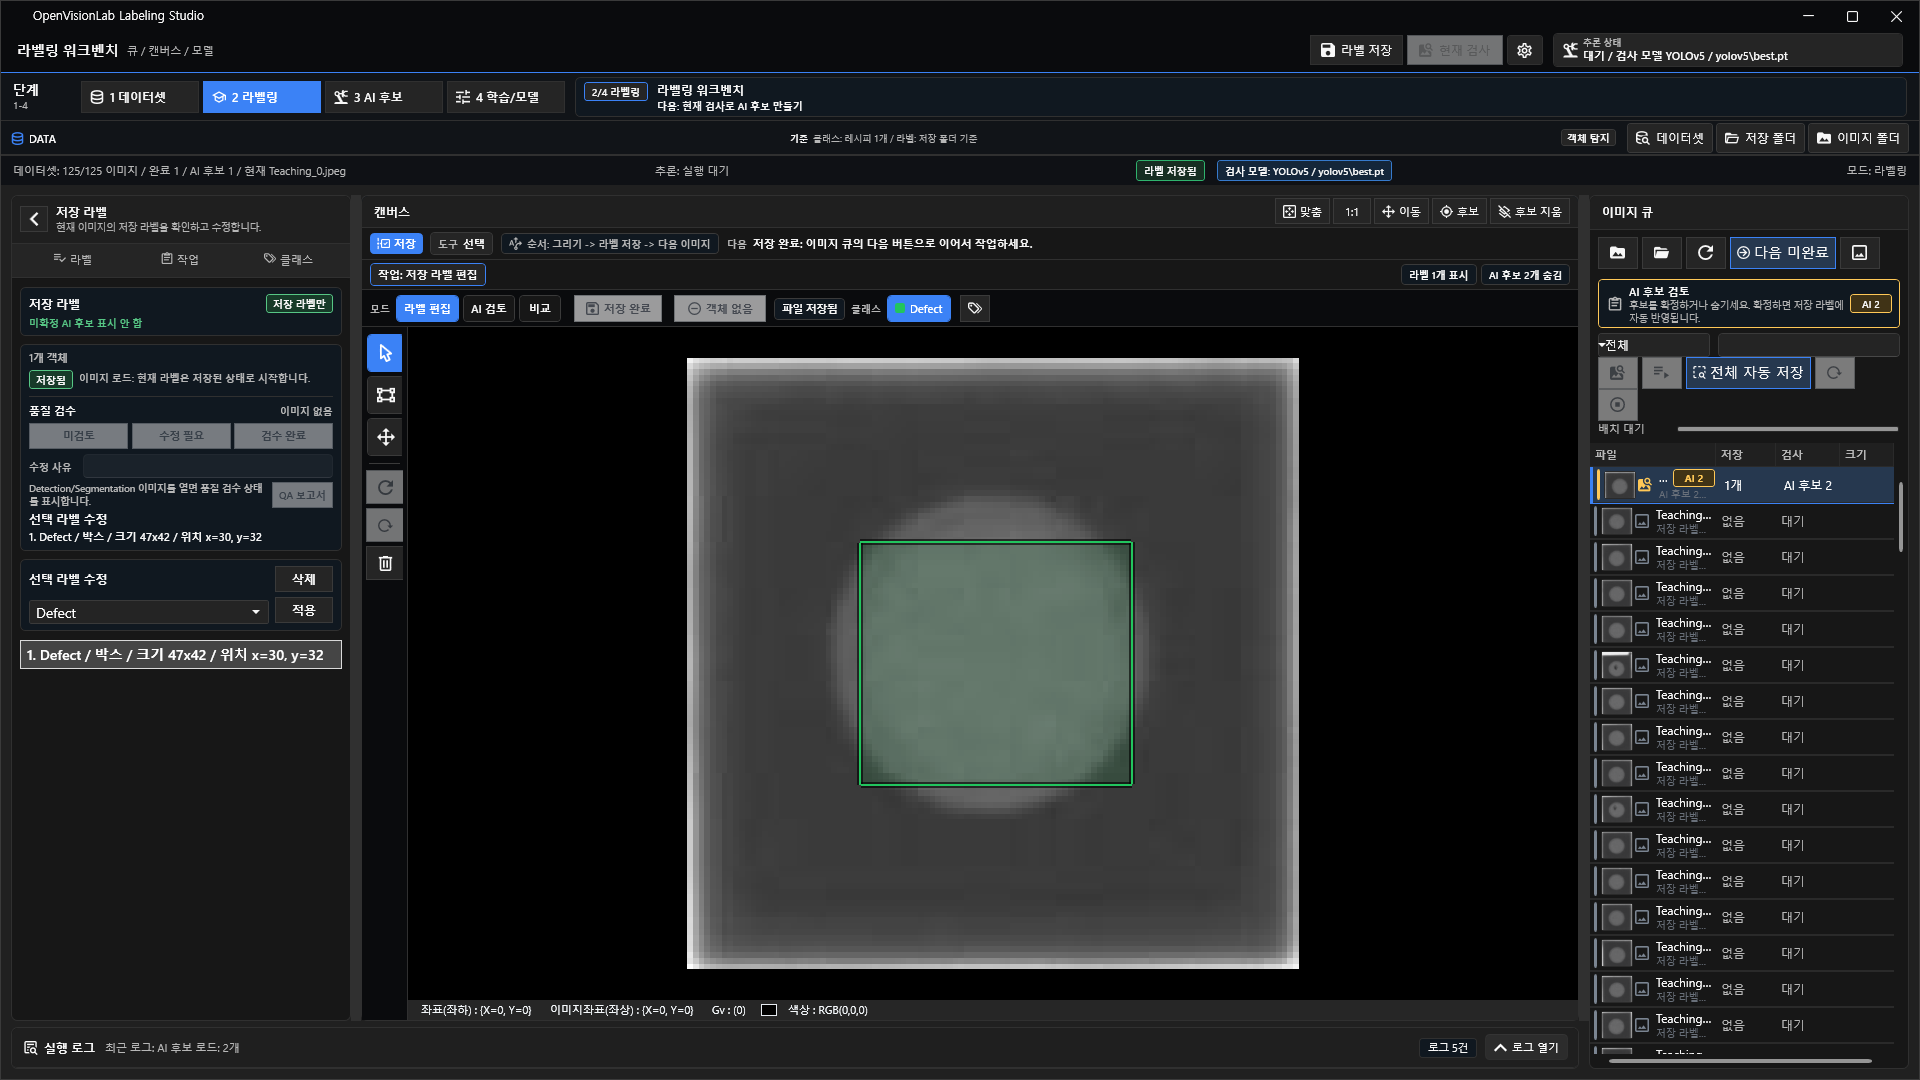
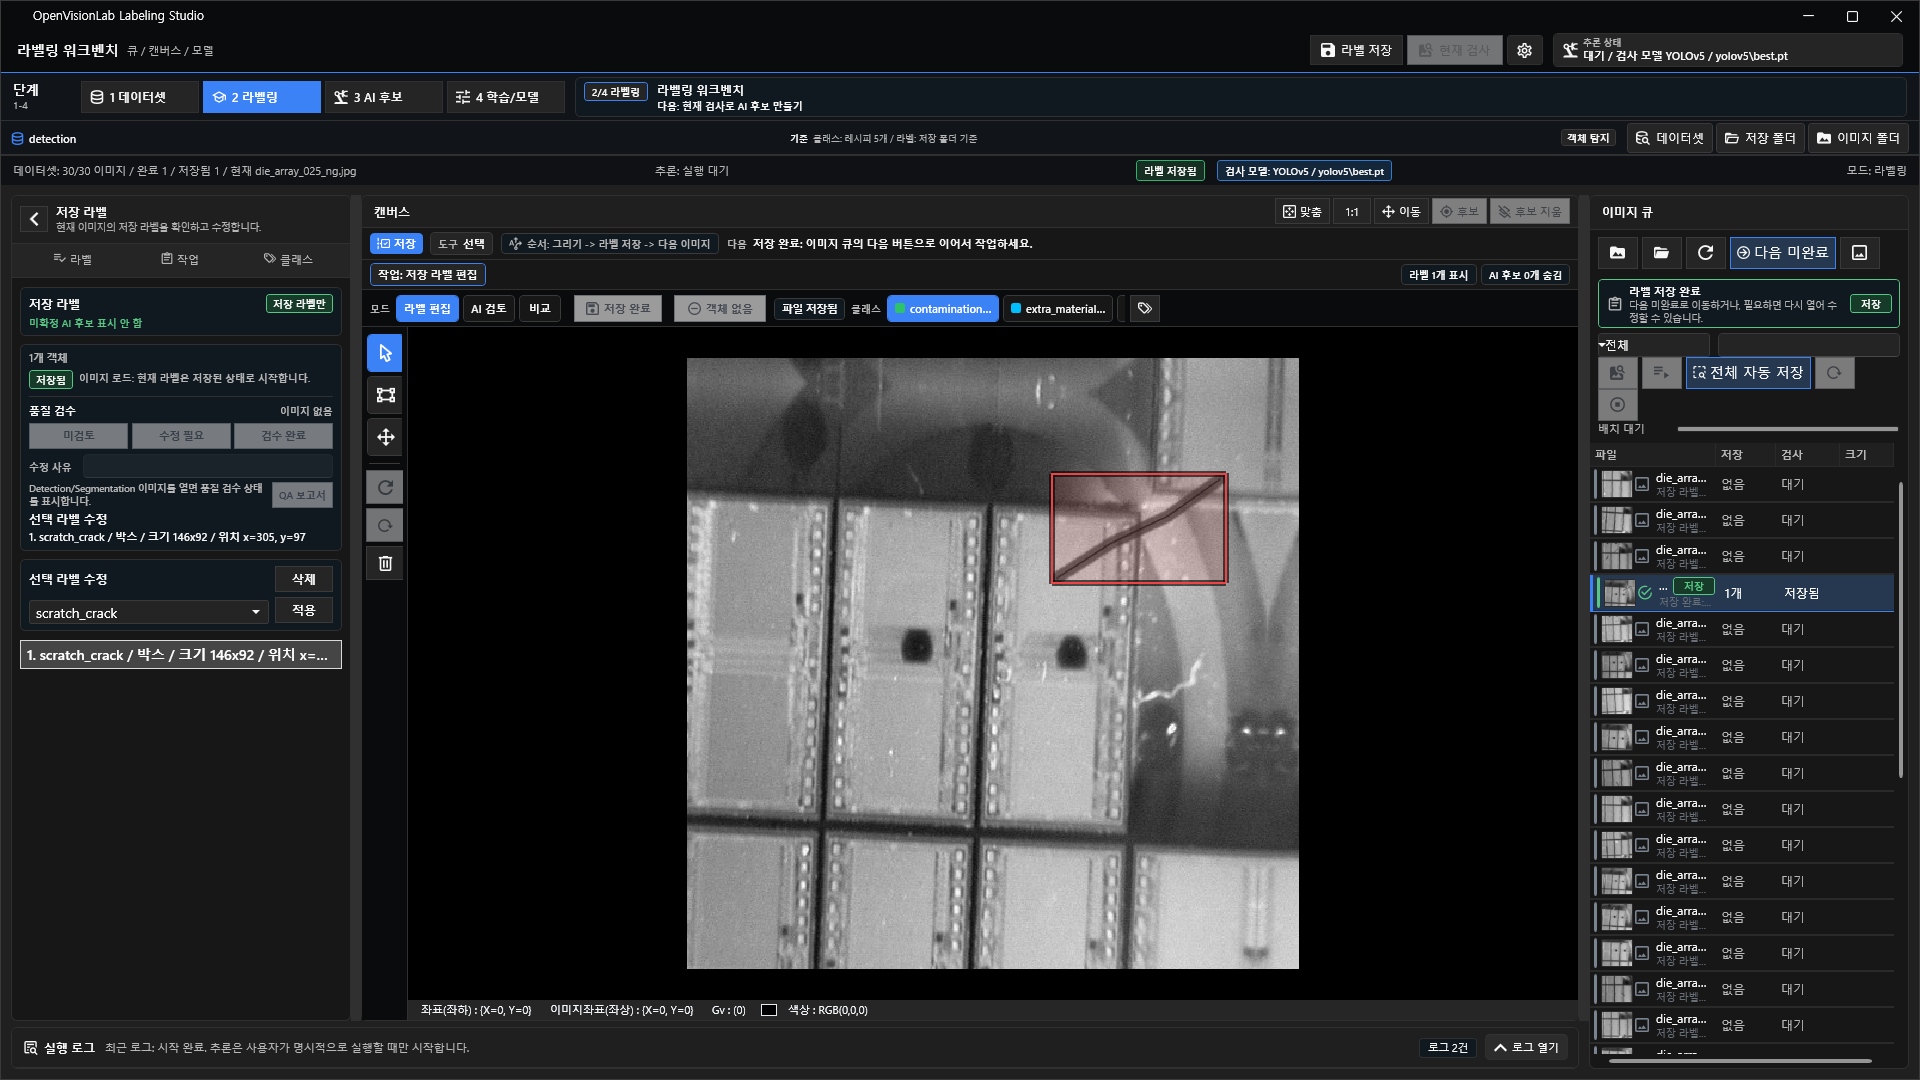
docs: show labels on visible defects

diff --git a/tests/LabelingApplication.Tests/Program.cs b/tests/LabelingApplication.Tests/Program.cs
@@ -1523,6 +1523,7 @@ internal static partial class Program
         string datasetOutputRoot = GetArgumentValue(args, "--dataset-output-root", string.Empty);
         string datasetClasses = GetArgumentValue(args, "--dataset-classes", string.Empty);
         bool roiOnly = HasArgument(args, "--roi-only");
+        bool savedAnnotationsOnly = HasArgument(args, "--saved-annotations-only");
         bool seedDuplicate = HasArgument(args, "--seed-duplicate");
         bool showBusyInferenceStatus = HasArgument(args, "--show-busy-inference-status");
         bool showFailedInferenceStatus = HasArgument(args, "--show-failed-inference-status");
@@ -1670,7 +1671,7 @@ internal static partial class Program
                             populateQueue: !preserveDatasetOutput,
                             refreshQueueDetails: false,
                             refreshActiveStatus: !preserveDatasetOutput,
-                            appendLoadLog: !preserveDatasetOutput),
+                            appendLoadLog: !preserveDatasetOutput && !savedAnnotationsOnly),
                         "WPF visual smoke image load failed");
                     if (!preserveDatasetOutput && !string.IsNullOrWhiteSpace(datasetPurpose))
                     {
@@ -1722,7 +1723,7 @@ internal static partial class Program
                         ApplyVisualSmokeUnetRuntimeReady(window, imagePath);
                     }
 
-                    var candidates = roiOnly
+                    var candidates = roiOnly || savedAnnotationsOnly
                         ? new List<YoloWorkerSmokeCandidate>()
                         : CreateVisualSmokeCandidates(imageSize, segmentationCandidates);
                     if (!roiOnly && seedDuplicate)
@@ -1731,13 +1732,14 @@ internal static partial class Program
                     }
 
                     if (!roiOnly
+                        && !savedAnnotationsOnly
                         && !anomalyReviewOnly
                         && window.FindName("InferenceModeButton") is System.Windows.Controls.Control inferenceModeButton)
                     {
                         window.ShellViewModel.InferenceModeCommand.Execute(null);
                     }
 
-                    if (!roiOnly && !anomalyReviewOnly)
+                    if (!roiOnly && !savedAnnotationsOnly && !anomalyReviewOnly)
                     {
                         InvokePrivateResult<object>(window, "ApplyDetectionCandidates", candidates, true);
                         if (confirmAllCandidates)

diff --git a/docs/WORK_TRACKING.md b/docs/WORK_TRACKING.md
@@ -2,9 +2,33 @@
 
 Last updated: 2026-07-22
 
+## 2026-07-22 public tutorial real-defect label capture correction
+
+- Status: `Complete`
+- Scope:
+  - Replace the unconvincing arbitrary object-detection and segmentation overlays in the public README/tutorial with current-source captures that reopen the supplied NG sample's exact saved defect labels.
+  - Add the test-only `--saved-annotations-only` visual-smoke mode so documentation captures can load persisted labels without generating AI candidates, centered demo ROIs, local-path log text, or unrelated queue contents.
+  - Keep production labeling, persistence, queue, model runtime, training, and inference behavior unchanged.
+- Acceptance criteria and evidence:
+  - Object detection shows exactly one box around the visible diagonal `scratch_crack`: source YOLO class `1` converts to pixel rectangle `x=305, y=97, width=146, height=92`, matching the app's selected-label details.
+  - Segmentation shows exactly one contour following the same visible `scratch_crack`: all 10 normalized source polygon points match the 10 reopened app polygon points, and the app identifies class `1` as `scratch_crack`.
[1 lines of base64/hex data omitted]
+  - Both public PNGs are current-source 1920x1080 captures, show the actual 30-image NG queue, contain no arbitrary second object, and expose no private local path in the visible log.
+- Verification:
+  - Required isolated test build passed with 0 warnings / 0 errors after the visual-smoke change.
+  - Current-source `--wpf-visual-smoke --saved-annotations-only` detection and segmentation captures completed and were inspected at original resolution.
+  - `--yolo-annotation-storage`, `--wpf-segmentation-object-verification`, and `--priority-workflow-docs` passed.
+  - Exact label-coordinate comparison, source-image SHA-256 comparison, Markdown image-link and 1920x1080 dimension checks, and `git diff --check` passed.
+- Evidence:
+  - `docs/tutorial/images/workflows-20260722/object-detection-labeling-1920x1080.png`
+  - `docs/tutorial/images/workflows-20260722/segmentation-labeling-1920x1080.png`
+- Boundary / next dependency:
+  - The supplied EasyMatch NG sample is procedurally synthesized workflow/format test data. These captures prove that visible defect labels are rendered at their supplied ground-truth coordinates; they do not prove production-camera realism, model accuracy, or automatic defect discovery.
+
 ## 2026-07-22 public README and three-workflow tutorial refresh
 
 - Status: `Complete`
+- Supersession note: the original object-detection and segmentation capture evidence is replaced by the real-defect label correction entry above; the anomaly capture and remaining documentation scope are unchanged.
 - Scope:
   - Reorganize the public README around product identity, a one-minute start, the shared recipe/model-adapter contract, installation, verification, and explicit limitations.
   - Replace the Markdown tutorial with separate first-user procedures for object detection, segmentation, anomaly OK/NG review, training, comparison, and candidate adoption.

diff --git a/README.md b/README.md
@@ -4,6 +4,8 @@
 
 ![객체탐지 라벨링 화면](docs/tutorial/images/workflows-20260722/object-detection-labeling-1920x1080.png)
 
+위 화면은 결함이 없는 이미지에 임의 도형을 그린 예가 아닙니다. 눈에 보이는 대각선 `scratch_crack` 결함을 원본 정답 좌표대로 박스로 다시 연 화면입니다.
+
 ## 1분 요약
 
 OpenVisionLab Labeling Studio는 라벨만 그리는 도구가 아닙니다. 한 레시피에서 이미지, 클래스, 정답 라벨, 데이터 분할과 검증 근거를 관리하고, 선택한 모델 어댑터가 같은 정답 데이터를 각 학습 형식으로 변환합니다.
@@ -30,13 +32,13 @@ OpenVisionLab Labeling Studio는 라벨만 그리는 도구가 아닙니다. 한
 
 ### 객체탐지
 
-대상의 위치와 종류가 필요할 때 사용합니다. 캔버스에서 박스를 그리고 클래스를 지정한 뒤 `라벨 저장`을 누릅니다. 대상이 없는 이미지는 `객체 없음`으로 명시합니다.
+대상의 위치와 종류가 필요할 때 사용합니다. 캔버스에서 실제 결함이 들어가는 최소 영역을 박스로 그리고 클래스를 지정한 뒤 `라벨 저장`을 누릅니다. 아래 예시는 눈에 보이는 대각선 스크래치 하나에만 `scratch_crack` 박스를 표시합니다. 대상이 없는 이미지는 `객체 없음`으로 명시합니다.
 
 ![객체탐지 라벨링](docs/tutorial/images/workflows-20260722/object-detection-labeling-1920x1080.png)
 
 ### 세그멘테이션
 
-결함이나 부품의 실제 경계가 필요할 때 사용합니다. 폴리곤, 브러시, 지우개로 영역을 만들고 객체 목록과 캔버스에서 결과를 함께 확인합니다.
+결함이나 부품의 실제 경계가 필요할 때 사용합니다. 폴리곤, 브러시, 지우개로 영역을 만들고 객체 목록과 캔버스에서 결과를 함께 확인합니다. 아래 예시는 객체탐지 화면과 같은 스크래치의 가느다란 경계를 10점 폴리곤으로 따라간 결과입니다.
 
 ![세그멘테이션 라벨링](docs/tutorial/images/workflows-20260722/segmentation-labeling-1920x1080.png)
 

diff --git a/docs/tutorial/README.md b/docs/tutorial/README.md
@@ -22,6 +22,8 @@
 
 ![라벨링 워크벤치 전체 화면](images/workflows-20260722/object-detection-labeling-1920x1080.png)
 
+예시 화면은 결함이 포함된 NG 샘플을 사용합니다. 우상단에 눈으로 확인되는 대각선 `scratch_crack`과 저장 라벨이 같은 위치에 있는지 먼저 확인하세요.
+
 ## 1. 데이터셋 만들기
 
 1. 상단의 `1 데이터셋`을 선택합니다.
@@ -54,6 +56,8 @@ edge_chip
 
 ![객체탐지 사용 화면](images/workflows-20260722/object-detection-labeling-1920x1080.png)
 
+이 화면의 빨간 박스는 임의 위치가 아니라 눈에 보이는 대각선 `scratch_crack` 정답 영역입니다. 박스는 결함 전체를 포함하되 주변 정상 배경을 과도하게 포함하지 않습니다.
+
 1. 데이터셋 목적을 `객체 탐지`로 선택합니다.
 2. `2 라벨링`으로 이동합니다.
 3. 캔버스 왼쪽 도구 레일에서 `박스`를 선택합니다.
@@ -70,6 +74,8 @@ edge_chip
 ## 4. 세그멘테이션 라벨링
 
 ![세그멘테이션 사용 화면](images/workflows-20260722/segmentation-labeling-1920x1080.png)
+
+이 화면은 위 객체탐지 예시와 같은 `scratch_crack`을 10점 폴리곤으로 다시 연 결과입니다. 굵은 사각형 대신 실제 스크래치 경계를 따라가므로 위치뿐 아니라 결함 형상도 학습 정답에 남습니다.
 
 1. 데이터셋 목적을 `세그멘테이션`으로 선택합니다.
 2. `2 라벨링`으로 이동하고 클래스를 선택합니다.